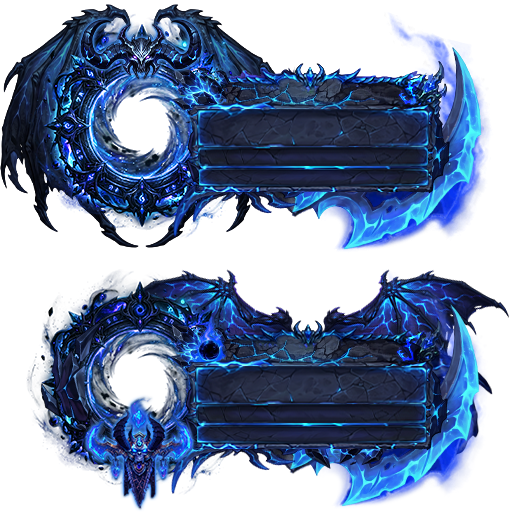
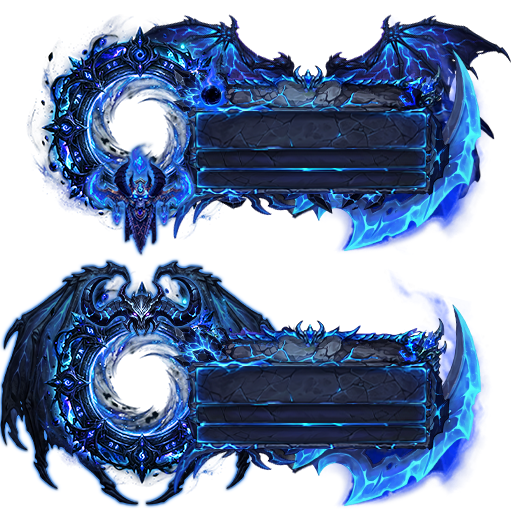
chore: update version to 1.4.2 style: add new demon hunter frames

diff --git a/README.md b/README.md
@@ -1,7 +1,7 @@
 # EPF Custom Skins
 
 [![License: CC BY-NC-SA 4.0](https://img.shields.io/badge/License-CC%20BY--NC--SA%204.0-blue.svg)](https://creativecommons.org/licenses/by-nc-sa/4.0/)
-[![Version](https://img.shields.io/badge/Version-1.4.1-informational)](ElitePlayerFrame_Enhanced_CustomSkins.toc)
+[![Version](https://img.shields.io/badge/Version-1.4.2-informational)](ElitePlayerFrame_Enhanced_CustomSkins.toc)
 [![WoW](https://img.shields.io/badge/WoW-12.1.0%20(MN)-orange)](https://worldofwarcraft.blizzard.com/)
 [![Lua](https://img.shields.io/badge/Lua-5.x-blue)](https://www.lua.org/)
 

diff --git a/CHANGELOG.md b/CHANGELOG.md
@@ -4,7 +4,13 @@ All notable changes to **EPF Custom Skins** are documented in this file.
 
 The format is based on [Keep a Changelog](https://keepachangelog.com/en/1.1.0/), and this project adheres to [Semantic Versioning](https://semver.org/spec/v2.0.0.html).
 
-## [1.4.1] - 2026-08-TBD
+## [1.4.2] - 2026-08-28
+
+### Added
+
+- Added demon hunter frames
+
+## [1.4.1] - 2026-08-27
 
 ### Added
 
